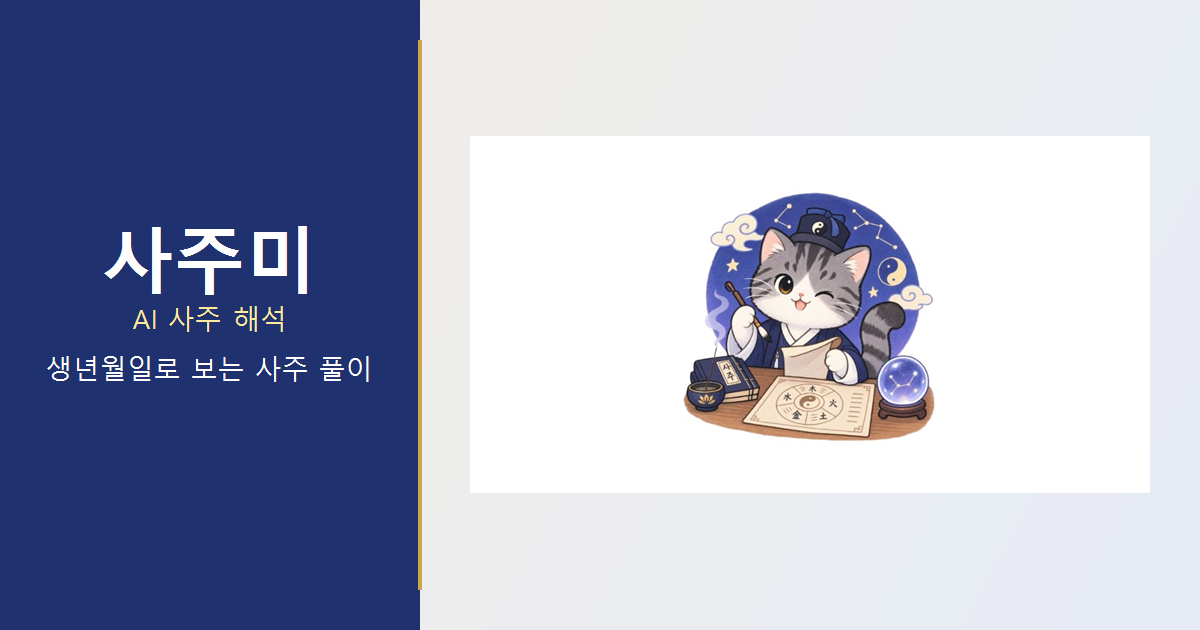
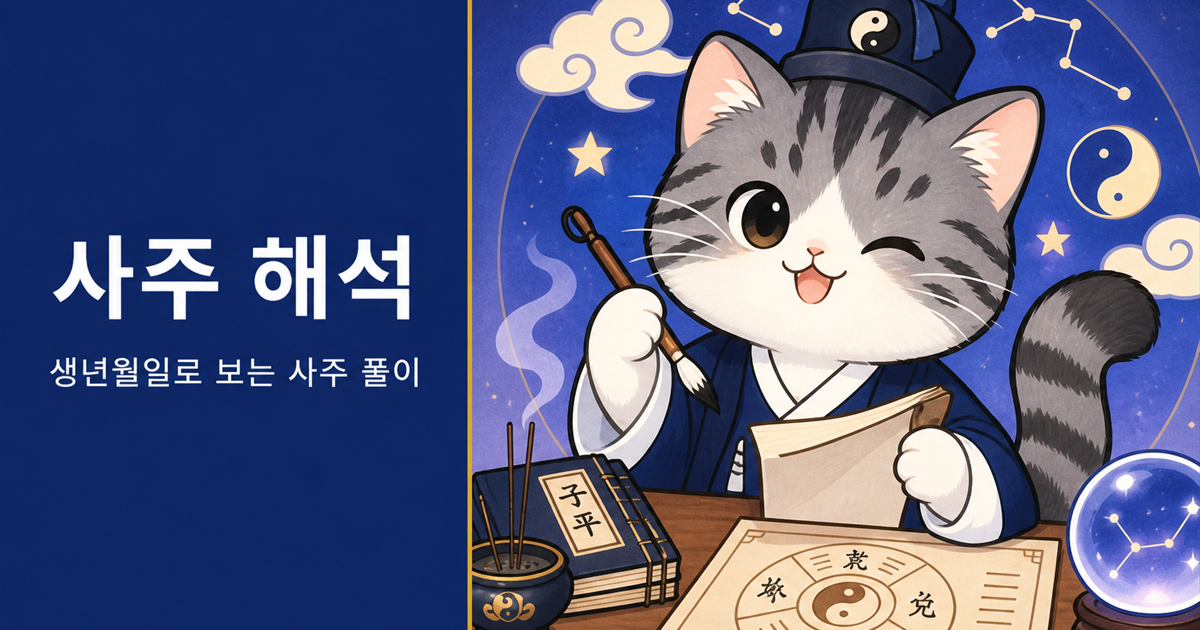
Fix OG preview with updated image and absolute meta URLs.
Resize the share image to 1200x630, cache-bust og:image, and inject VITE_SITE_URL so crawlers resolve the preview correctly.

diff --git a/SAJU-ME-KANG/index.html b/SAJU-ME-KANG/index.html
@@ -49,11 +49,12 @@
       content="생년월일만 입력하면 AI가 사주 명식과 해석을 알려드려요. 고양이 사주 선생님과 함께하는 쉽고 친근한 사주 풀이."
     />
     <meta property="og:url" content="%VITE_SITE_URL%/" />
-    <meta property="og:image" content="%VITE_SITE_URL%/og-image.png" />
+    <meta property="og:image" content="%VITE_SITE_URL%/og-image.png?v=20260813" />
+    <meta property="og:image:secure_url" content="%VITE_SITE_URL%/og-image.png?v=20260813" />
     <meta property="og:image:type" content="image/png" />
     <meta property="og:image:width" content="1200" />
     <meta property="og:image:height" content="630" />
-    <meta property="og:image:alt" content="사주미 AI 사주 해석 고양이 선생님" />
+    <meta property="og:image:alt" content="사주 해석 — 생년월일로 보는 사주 풀이" />
 
     <!-- Twitter -->
     <meta name="twitter:card" content="summary_large_image" />
@@ -62,8 +63,8 @@
       name="twitter:description"
       content="생년월일만 입력하면 AI가 사주 명식과 해석을 알려드려요. 고양이 사주 선생님과 함께하는 사주 풀이."
     />
-    <meta name="twitter:image" content="%VITE_SITE_URL%/og-image.png" />
-    <meta name="twitter:image:alt" content="사주미 AI 사주 해석 고양이 선생님" />
+    <meta name="twitter:image" content="%VITE_SITE_URL%/og-image.png?v=20260813" />
+    <meta name="twitter:image:alt" content="사주 해석 — 생년월일로 보는 사주 풀이" />
 
     <!-- Icons & PWA -->
     <link rel="icon" type="image/png" href="/favicon.png" />

diff --git a/SAJU-ME-KANG/vite.config.js b/SAJU-ME-KANG/vite.config.js
@@ -5,15 +5,17 @@ import react from '@vitejs/plugin-react'
 import { VitePWA } from 'vite-plugin-pwa'
 
 function seoEmitPlugin(siteUrl) {
-  const normalized = (siteUrl || '').replace(/\/$/, '')
+  const normalized = (siteUrl || 'https://saju-me-kang.vercel.app').replace(/\/$/, '')
 
   return {
     name: 'seo-emit',
     transformIndexHtml: {
       order: 'post',
       handler(html) {
+        let next = html.replaceAll('%VITE_SITE_URL%', normalized)
+
         // Search Console 인증값이 없거나 플레이스홀더면 메타 태그 제거
-        return html
+        next = next
           .replace(
             /<meta\s+name="google-site-verification"\s+content="%VITE_GOOGLE_SITE_VERIFICATION%"\s*\/?>\s*/i,
             '',
@@ -22,11 +24,15 @@ function seoEmitPlugin(siteUrl) {
             /<meta\s+name="google-site-verification"\s+content="\s*"\s*\/?>\s*/i,
             '',
           )
+          .replace(
+            /<meta\s+name="google-site-verification"\s+content="Search_Console에서_받은_코드"\s*\/?>\s*/i,
+            '',
+          )
+
+        return next
       },
     },
     closeBundle() {
-      if (!normalized) return
-
       const outDir = path.resolve('dist')
       if (!fs.existsSync(outDir)) return
 
